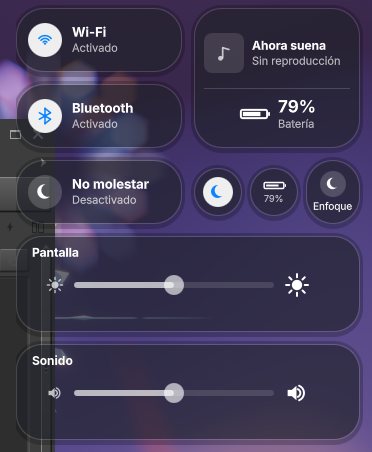
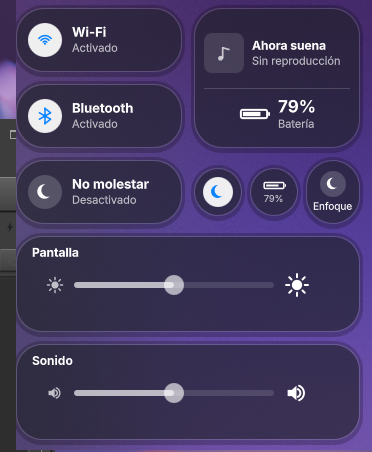
docs(F3-T05): capturas finales del CC con blur real

diff --git a/docs/plans/evidence/F3-T05-tahoe-cc.md b/docs/plans/evidence/F3-T05-tahoe-cc.md
@@ -1,4 +1,4 @@
-# F3-T05 — Control Center Tahoe (worktree `plasma/f-cc-tahoe`, 2026-11-02)
+# F3-T05 — Control Center Tahoe (2026-11-02)
 
 ## Resultado
 
@@ -29,37 +29,65 @@ Además se corrigieron tres bugs funcionales del CC anterior:
 3. **Sliders**: el ancho se calcula contra el `Row` con id (el `parent.width`
    dentro del `Slider` daba 0 y la pista/knob no se dibujaban).
 
+## Blur real del compositor (primera capa de Liquid Glass)
+
+`main.cpp` aplica `KWindowEffects::enableBlurBehind()` a la barra y al popup
+del CC (scope `nimbus-cc`) con región explícita. En KWin 6.8 Wayland usa
+`ext-background-effect-v1`; el binding/capability es asíncrono y la región es
+double-buffered, así que se registra al arrancar, se reaplica a los 500 ms y se
+pide `requestUpdate()`.
+
+- Damero de 16 px: dentro del CC el patrón queda promediado (blur); fuera
+  sigue nítido. Evidencia `F3-T05-tahoe-cc-blur-checker.png` y recorte
+  `...-crop.png`.
+- Se descarta el **scrim** full-screen del CC (si se blurea, oscurece/
+  emborrona todo el escritorio) y se comprueba la geometría como red de
+  seguridad.
+- **Allowlist**: de momento solo barra + CC. Registrar blur en el resto de
+  popups ocultos (menú/calendario/tray/OSD/notificaciones) hacía que KWin 6.8
+  blureara el output completo; se validarán uno a uno con captura antes de
+  añadirlos. Esto **no es** Liquid Glass completo: falta refracción/lensing,
+  dispersión y rim/specular (Glass, F11-T02).
+
 ## Verificación
 
 - `qmllint packages/shell/nimbus-bar/qml/ControlCenter.qml` → rc 0.
-- `cmake -S packages/shell/nimbus-bar -B /tmp/cc-build2 -G Ninja` + build →
-  PASS.
-- Captura nested real (KWin 6.8.2 virtual 1280×800, wallpaper Nimbus
-  `sequoia-dark.jpg`, socket aislado `nimbus-cc-review3`):
+- `cmake -S packages/shell/nimbus-bar -B /tmp/barblur2 -G Ninja` + build →
+  PASS. `bash tests/bar/test_presets.sh` → VERDE.
+- Capturas nested reales (KWin 6.8.2 virtual 1280×800, socket aislado):
 
 ```bash
+# visual con wallpaper Nimbus
 bash tests/vm/nested-bar.sh \
-  --bin /tmp/cc-build2/nimbus-bar \
-  --out spikes/cc-review3 --timeout 30 \
+  --bin /tmp/barblur2/nimbus-bar \
+  --out spikes/cc-final --timeout 30 \
   --wallpaper packages/themes/nimbus-tahoe/wallpapers/sequoia-dark.jpg \
-  --socket nimbus-cc-review3 --bar-args "--open-cc"
+  --socket nimbus-cc-final --bar-args "--open-cc"
+
+# prueba de blur sobre damero de alto contraste
+bash tests/vm/nested-bar.sh \
+  --bin /tmp/barblur2/nimbus-bar \
+  --out spikes/cc-blur-final --timeout 30 \
+  --wallpaper /tmp/opencode/checker-1280x800.png \
+  --socket nimbus-cc-blur-final --bar-args "--open-cc"
 ```
 
-- `F3-T05-tahoe-cc.png`: captura completa 1280×800.
-- `F3-T05-tahoe-cc-crop.png`: recorte del panel.
+- `F3-T05-tahoe-cc.png` / `-crop.png`: captura final con wallpaper.
+- `F3-T05-tahoe-cc-blur-checker.png` / `-crop.png`: damero + blur real.
 - Medición: panel en x=924..1268 (344 px de contenido), y=32..460; margen
   derecho 12 px; solape con la ventana de Kate correcto (capa Top).
 - Estados reales en nested: Wi-Fi **Activado**, Bluetooth **Activado**,
-  batería 79 %,sliders con pista/fill/knob visibles.
+  batería 79 %, sliders con pista/fill/knob visibles.
+- Log: `nimbus-bar: glass scope=nimbus-cc` y
+  `nimbus-bar: blur compositor activo=1`.
 
 ## Límites (no cerrar F3-T05 todavía)
 
-- **No hay blur/refracción real en el CC**: las cápsulas son tinte alfa +
-  hairline; el blur de compositor ya funciona en la barra (F11-T02) y hay que
-  extenderlo a las ventanas layer-shell del CC/menús/notificaciones.
 - La fila “dos círculos + Enfoque” es una aproximación: Tahoe usa dos círculos
   pequeños bajo el reproductor y una cápsula Focus ancha en la fila siguiente.
-  Falta Stage Manager / Screen Mirroring.
+  Falta Stage Manager / Screen Mirroring; el panel es más ancho que los 292 pt
+  de referencia.
+- Sin refracción real (solo blur de fondo); sin Reduce Transparency.
 - `--demo-cc` no inyecta estados falsos (Wi-Fi/BT off); para la captura de
   estados “on” se usó `--open-cc` con las lecturas reales del host nested.
 - Sin validación en la VM instalada (out15/out16).

diff --git a/docs/plans/evidence/F11-T02-blur.md b/docs/plans/evidence/F11-T02-blur.md
@@ -68,10 +68,27 @@ Secuencia que funciona:
 3. El protocolo es double-buffered: la región solo se aplica en el siguiente
    `wl_surface.commit`. Sin repintado, el efecto queda pendiente y no se ve.
 
+## Extensión al Control Center (2026-11-02)
+
+El mismo backend se aplica al popup del CC (`scope nimbus-cc`): sobre el
+damero, el patrón queda promediado dentro del panel y nítido fuera
+(`F3-T05-tahoe-cc-blur-checker.png`, `docs/plans/evidence/F3-T05-tahoe-cc.md`).
+
+Dos trampas nuevas:
+
+- **Scrim**: el CC tiene una ventana full-screen para cerrar al clic. Si se
+  blurea, se emborrona/oscurece todo el escritorio. Se descarta por
+  scope/título y por geometría (≥90 % de la pantalla).
+- **Popups ocultos**: registrar blur en menú/calendario/OSD/notificaciones
+  ocultos hacía que KWin 6.8 blureara el output completo. De momento solo
+  están en la allowlist barra + CC; el resto se valida uno a uno.
+
 ## Límites y siguientes pasos
 
 - Probado solo en nested; falta la **VM instalada** (out15/out16) y medir fps
   con `QSG_RENDER_TIMING=1` (llvmpipe y GPU).
+- El CC **sí tiene blur** de fondo; menú/calendario/OSD/notificaciones aún no.
+- Sin refracción/lensing: el blur stock solo aproxima la primera capa.
 - Falta **Reduce Transparency** (A9): con blur desactivado la superficie debe
   quedar opaca y legible.
 - Falta **refracción real**: integrar `4v3ngR/kwin-effects-glass` para Plasma
